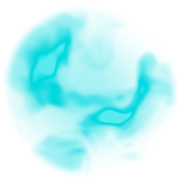
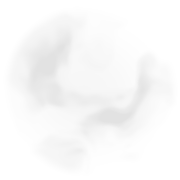
Colours: primary #afafaf, secondary #f9f4f4, buttons #eb228a (Color studio)

diff --git a/app/globals.css b/app/globals.css
@@ -63,8 +63,8 @@
  */
 :root {
   --brand-h: 198.7;
-  --brand-c: 0.1447;
-  --brand-l-adj: 0.0708; /* ±0.08: posun světlosti akcentu (tlačítka, výplně, glow) */
+  --brand-c: 0;
+  --brand-l-adj: -0.026; /* ±0.08: posun světlosti akcentu (tlačítka, výplně, glow) */
 
   --brand: oklch(calc(0.78 + var(--brand-l-adj)) var(--brand-c) var(--brand-h));
   --brand-strong: oklch(calc(0.7 + var(--brand-l-adj)) var(--brand-c) var(--brand-h));
@@ -75,9 +75,9 @@
   --on-brand: oklch(0.2 0.02 var(--brand-h));
 
   /* Barva tlačítek a barevných nadpisů. Výchozí = primární; Color studio ji umí nastavit zvlášť. */
-  --cta-h: 351.1;
-  --cta-c: 0.1994;
-  --cta-l-adj: -0.0522;
+  --cta-h: 356.6;
+  --cta-c: 0.2389;
+  --cta-l-adj: -0.1574;
   --cta: oklch(calc(0.78 + var(--cta-l-adj)) var(--cta-c) var(--cta-h));
   --cta-text: var(--cta);
 

diff --git a/components/ColorStudio.tsx b/components/ColorStudio.tsx
@@ -16,7 +16,7 @@ import { makePack, updateFavicon } from '@/lib/brandAssets';
 
 const KEY = 'brand-v6';
 type Brand = { p: string; s: string; h: number; c: number; l: number; bd: string; bl: string; a: string };
-const DEF: Brand = { p: '#00eaf1', s: '#f9f4f4', h: 198.7, c: 0.1447, l: 0.0708, bd: '#0f0e0e', bl: '#dfe2ff', a: '#ff68b6' };
+const DEF: Brand = { p: '#afafaf', s: '#f9f4f4', h: 198.7, c: 0, l: -0.026, bd: '#0f0e0e', bl: '#dfe2ff', a: '#eb228a' };
 const BG_KEY = 'brand-bg-v1'; // spočítané CSS proměnné pozadí; layout.tsx je obnoví před prvním vykreslením
 
 const round = (n: number, d = 3) => +n.toFixed(d);
